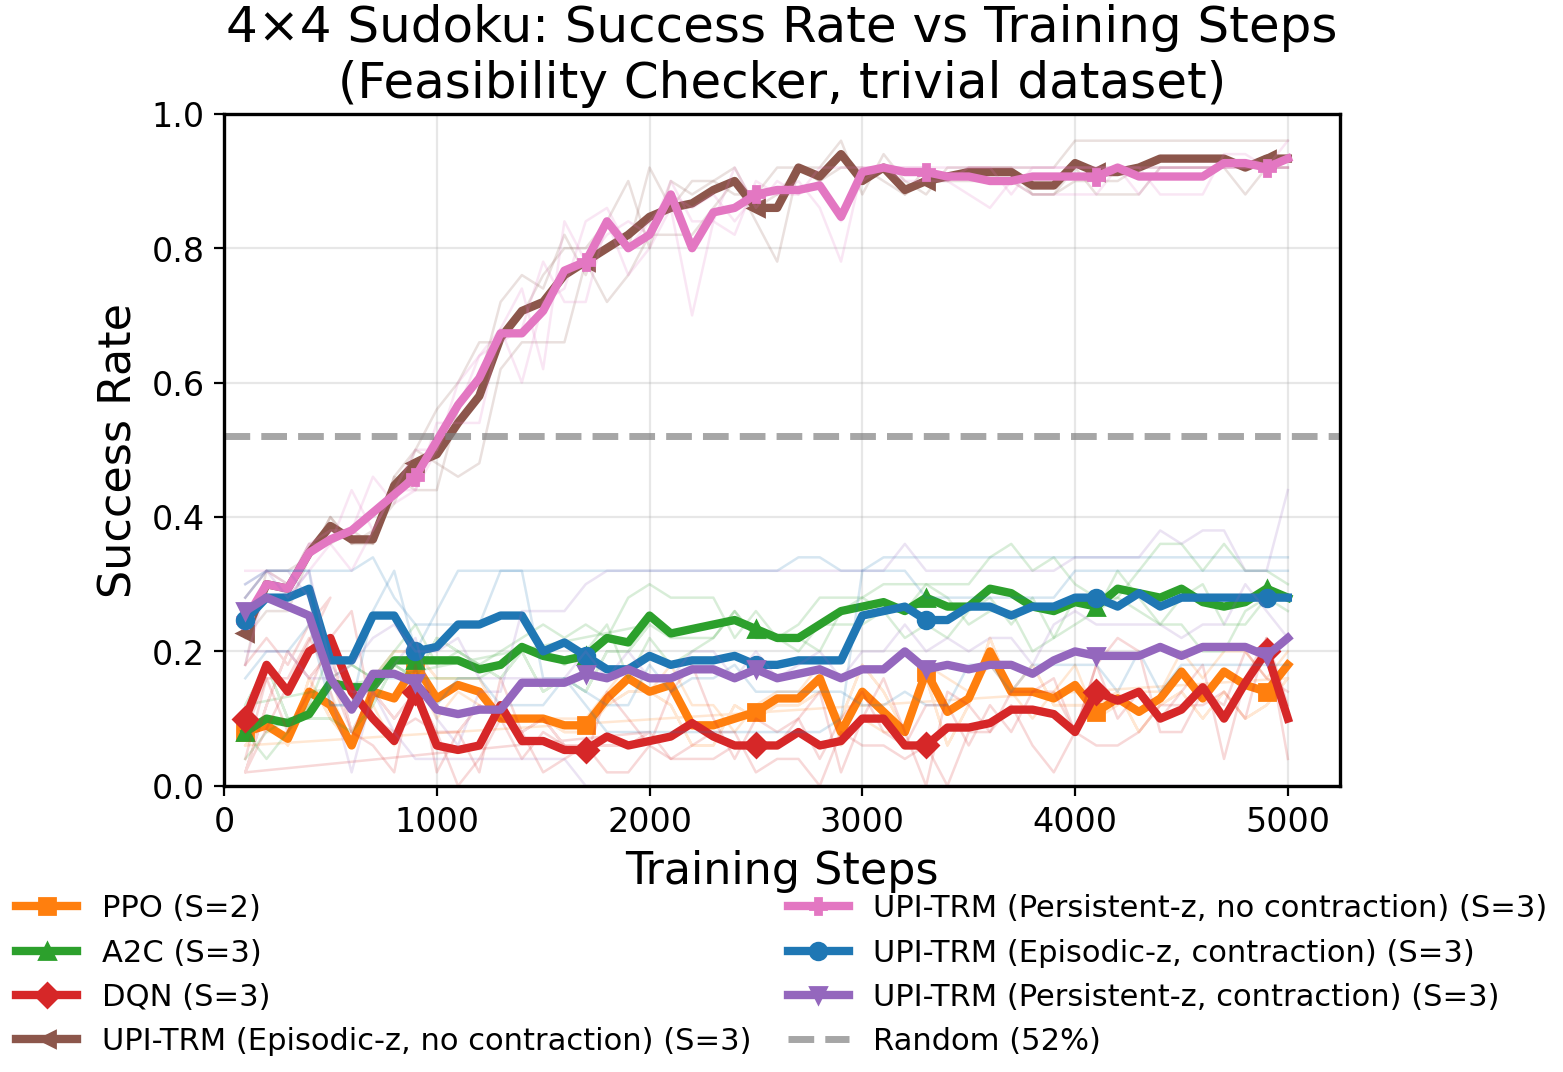
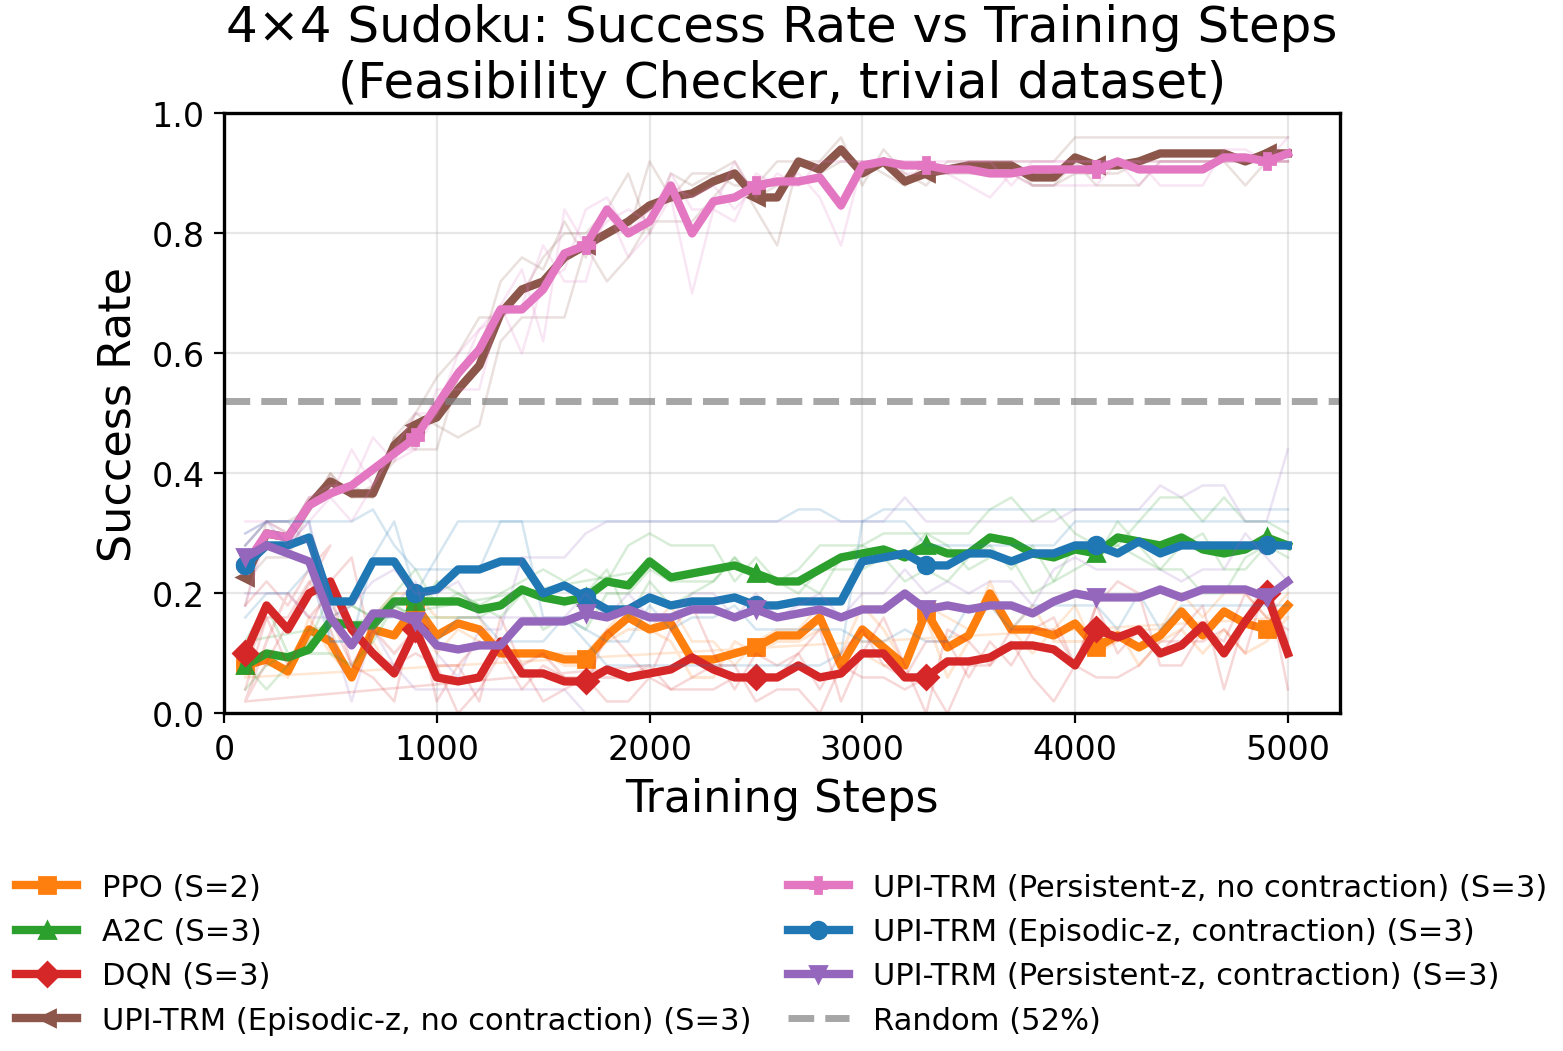
Increase bottom margin to fully fix legend/x-axis overlap in success plot
Move legend lower (bbox_to_anchor y: -0.12 → -0.22) and increase bottom
margin (0.32 → 0.38) to ensure "Training Steps" label is fully visible.

diff --git a/scripts/plot_feasibility_curves.py b/scripts/plot_feasibility_curves.py
@@ -218,7 +218,7 @@ def plot_success_vs_steps(data: dict, output_dir: Path, title_suffix: str = "Fea
     # Put legend below plot in two columns (prevents covering curves + improves readability)
     ax.legend(
         loc="upper center",
-        bbox_to_anchor=(0.5, -0.12),
+        bbox_to_anchor=(0.5, -0.22),
         ncol=2,
         frameon=False,
         handlelength=2.0,
@@ -231,8 +231,8 @@ def plot_success_vs_steps(data: dict, output_dir: Path, title_suffix: str = "Fea
     png_path = output_dir / "feasibility_success_vs_steps.png"
     pdf_path = output_dir / "feasibility_success_vs_steps.pdf"
 
-    # Leave room for legend under axes
-    fig.subplots_adjust(bottom=0.32)
+    # Leave room for legend under axes (increased to prevent overlap with x-axis label)
+    fig.subplots_adjust(bottom=0.38)
     fig.savefig(png_path, dpi=200, bbox_inches="tight", pad_inches=0.02)
     fig.savefig(pdf_path, bbox_inches="tight", pad_inches=0.02)
     print(f"Saved {png_path}")
